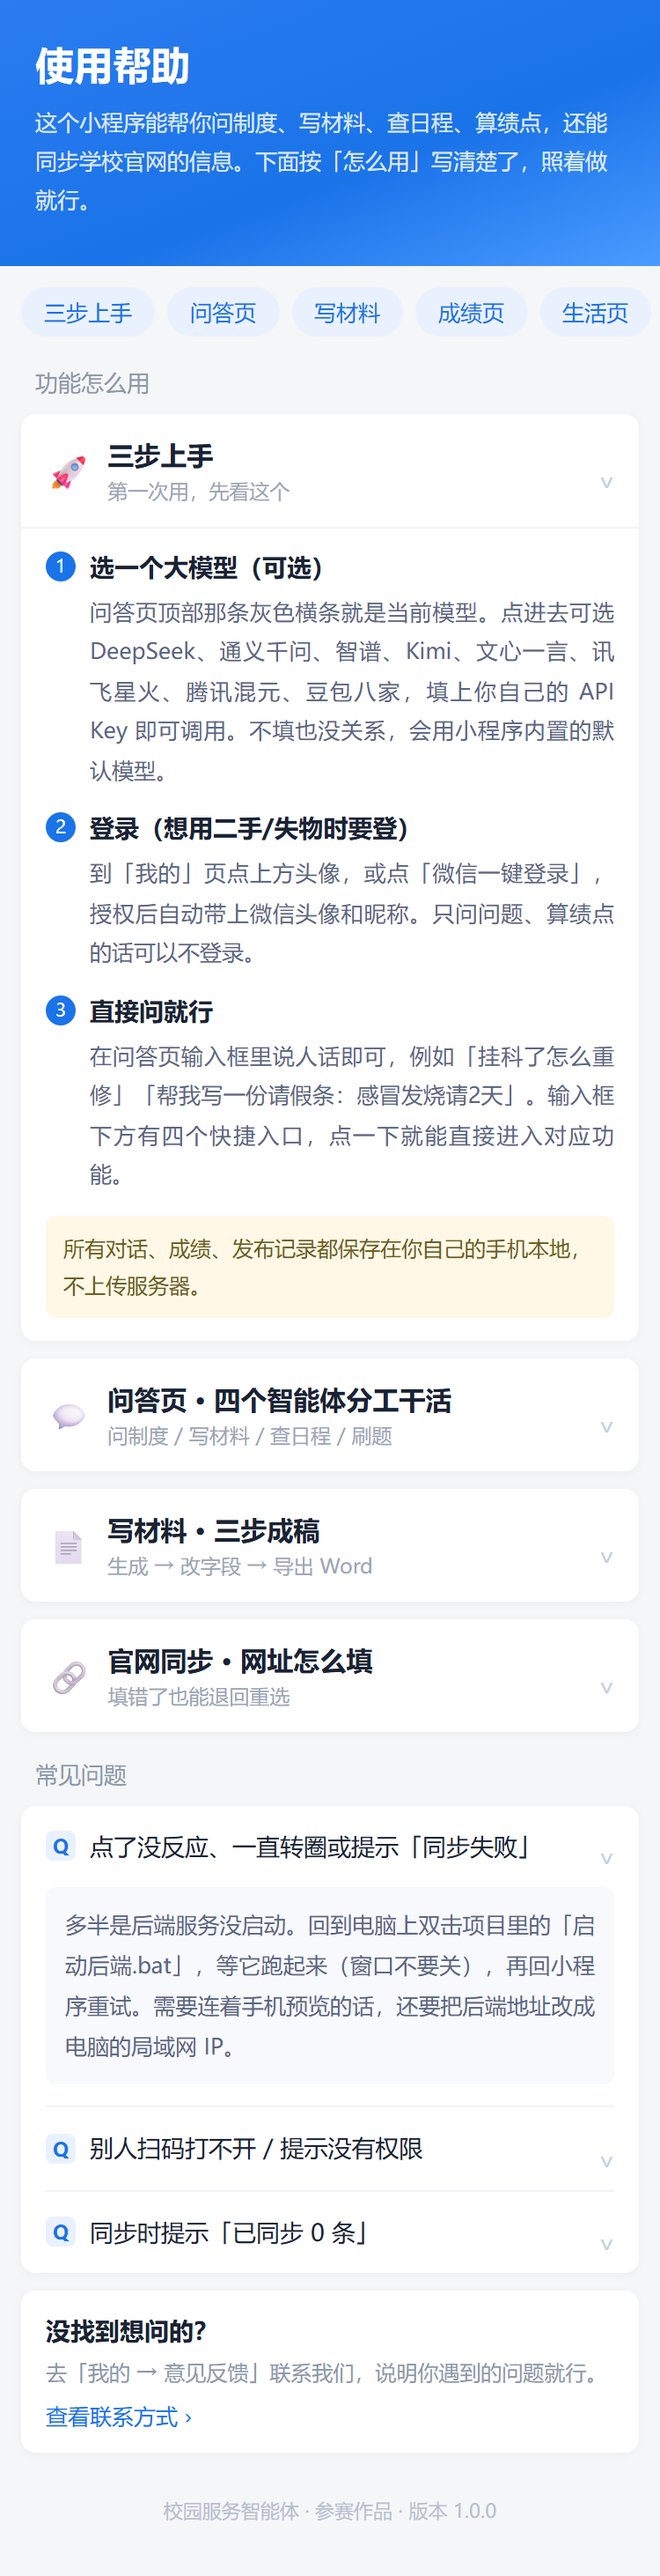
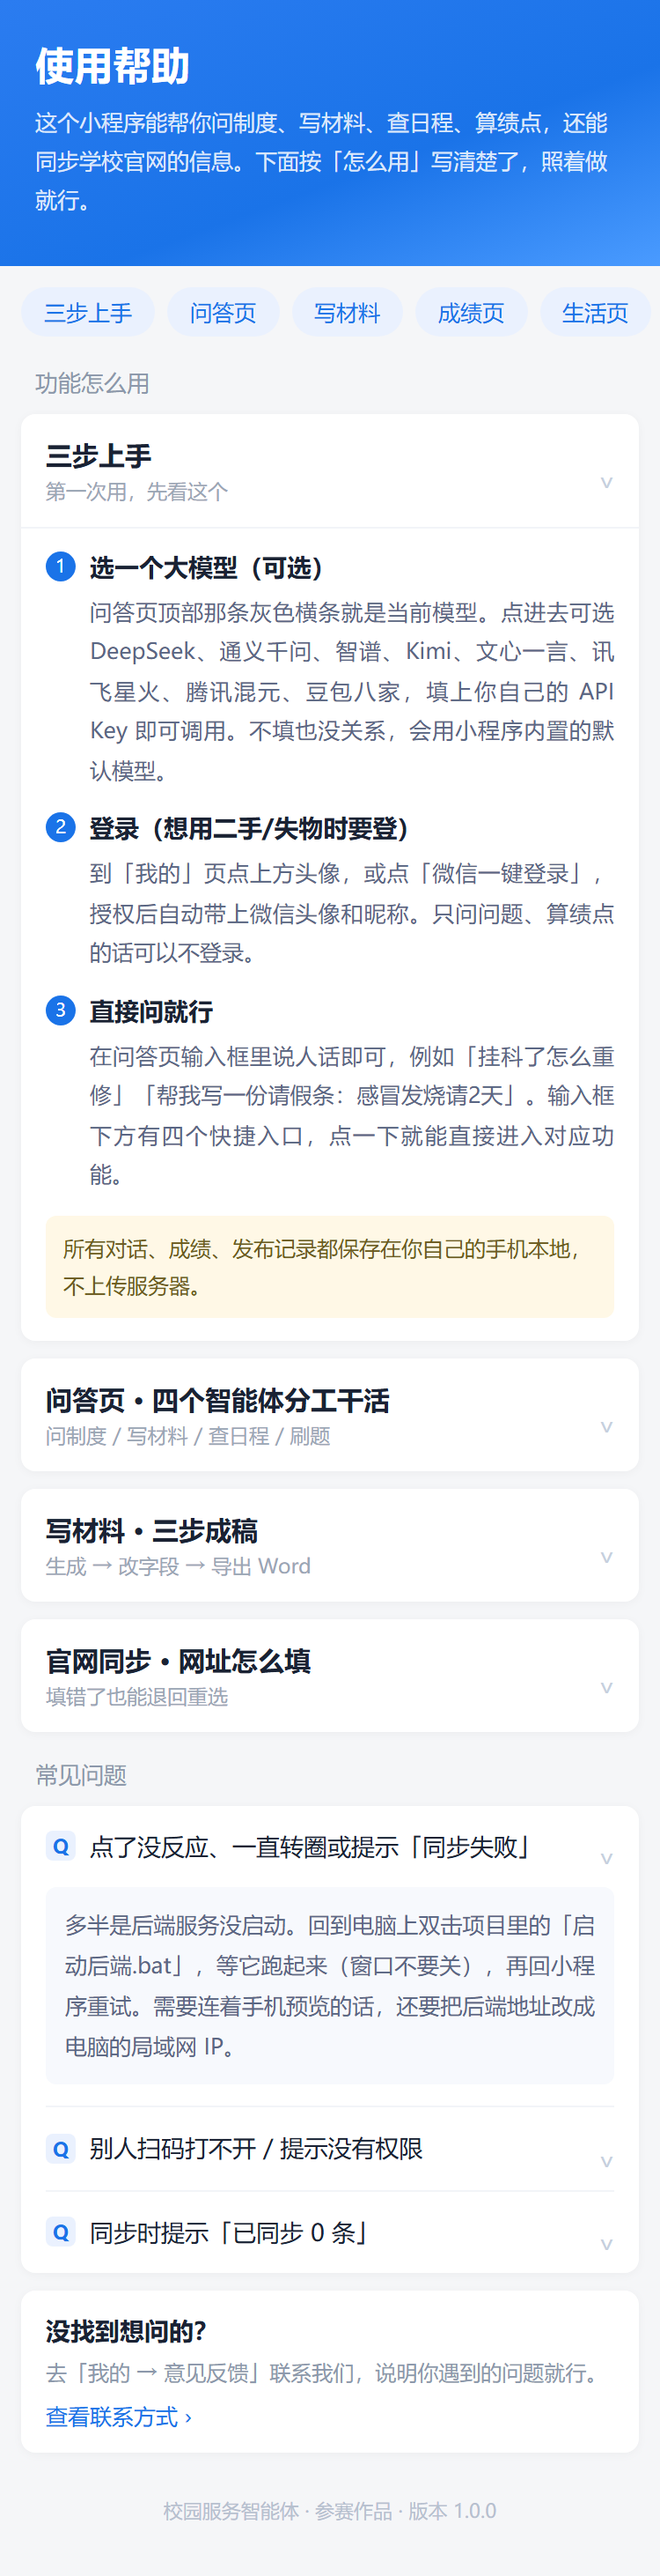
style(help): 去掉帮助页的 emoji 图标
分组卡标题前的 🚀💬📄📊☀🔗👤 过于模板化，删掉图标后
标题直接左对齐，只保留标题+副标题+折叠箭头，与实际功能
无关的装饰一并移除。

Changed region(s): [[0.0613, 0.5913, 0.5827, 0.6847], [0.0613, 0.5291, 0.6747, 0.5602], [0.0613, 0.1556, 0.3987, 0.2179]]

diff --git a/miniprogram/pages/help/help.js b/miniprogram/pages/help/help.js
@@ -12,7 +12,7 @@ Page({
   onLoad() {
     const guides = [
       {
-        id: 'g-start', icon: '🚀', title: '三步上手', sub: '第一次用，先看这个',
+        id: 'g-start', title: '三步上手', sub: '第一次用，先看这个',
         steps: [
           { t: '选一个大模型（可选）', d: '问答页顶部那条灰色横条就是当前模型。点进去可选 DeepSeek、通义千问、智谱、Kimi、文心一言、讯飞星火、腾讯混元、豆包八家，填上你自己的 API Key 即可调用。不填也没关系，会用小程序内置的默认模型。' },
           { t: '登录（想用二手/失物时要登）', d: '到「我的」页点上方头像，或点「微信一键登录」，授权后自动带上微信头像和昵称。只问问题、算绩点的话可以不登录。' },
@@ -21,7 +21,7 @@ Page({
         tip: '所有对话、成绩、发布记录都保存在你自己的手机本地，不上传服务器。'
       },
       {
-        id: 'g-chat', icon: '💬', title: '问答页 · 四个智能体分工干活',
+        id: 'g-chat', title: '问答页 · 四个智能体分工干活',
         sub: '问制度 / 写材料 / 查日程 / 刷题',
         steps: [
           { t: '不用自己选，它会自动分工', d: '你问一句话，系统先判断该由哪个智能体来答，再带着对应的资料和工具去回答。比如问「奖学金怎么评」走问答智能体，说「帮我写一份请假条」走材料智能体。' },
@@ -34,7 +34,7 @@ Page({
         tip: '问问题越具体越好。把「什么时候比赛」换成「计算机挑战赛报名什么时候截止」，答案会准得多。'
       },
       {
-        id: 'g-doc', icon: '📄', title: '写材料 · 三步成稿',
+        id: 'g-doc', title: '写材料 · 三步成稿',
         sub: '生成 → 改字段 → 导出 Word',
         steps: [
           { t: '① 说清楚要什么', d: '直接输入，格式是「帮我写一份××：具体情况」。例如：帮我写一份请假条：感冒发烧请2天；帮我写一份活动策划：校园编程兴趣小组招新。' },
@@ -44,7 +44,7 @@ Page({
         tip: '目前支持的模板有请假条、实训申请、活动策划、社团申报四类。生成过的材料会在「我的 → 我生成的材料」里留下记录。'
       },
       {
-        id: 'g-score', icon: '📊', title: '成绩页 · 算绩点、看分布、测提分',
+        id: 'g-score', title: '成绩页 · 算绩点、看分布、测提分',
         sub: '只填课程名、学分、分数就行',
         steps: [
           { t: '录入成绩', d: '在「录入成绩」里填三个框：课程名、学分、分数，点「添加」。填错了点右边的「删」删掉。' },
@@ -56,7 +56,7 @@ Page({
         tip: '成绩只存在你手机本地，用于算绩点和问答，不会上传到服务器保存。'
       },
       {
-        id: 'g-life', icon: '☀', title: '生活页 · 校园服务',
+        id: 'g-life', title: '生活页 · 校园服务',
         sub: '天气 / 校历作息 / 失物招领 / 二手市场',
         steps: [
           { t: '天气', d: '打开生活页自动定位并显示当前天气，下面有穿衣和出行建议。' },
@@ -67,7 +67,7 @@ Page({
         tip: '发布的内容请勿包含身份证号、银行卡号等敏感信息，也请勿发布违规物品。'
       },
       {
-        id: 'g-sync', icon: '🔗', title: '官网同步 · 网址怎么填',
+        id: 'g-sync', title: '官网同步 · 网址怎么填',
         sub: '填错了也能退回重选',
         steps: [
           { t: '① 找到「同步官网」入口', d: '生活页的校历/作息/通知公告卡片、成绩页的「学校成绩规则」卡片右上角，都有「同步官网」按钮。' },
@@ -78,7 +78,7 @@ Page({
         tip: '示例：https://home.xasyu.cn/web/jwc/ （教务处栏目页）。同步的是学校公开发布的信息，仅作查询方便，具体以学校最新正式文件为准。'
       },
       {
-        id: 'g-mine', icon: '👤', title: '我的 · 设置与数据',
+        id: 'g-mine', title: '我的 · 设置与数据',
         sub: '登录、大模型、清除数据',
         steps: [
           { t: '登录与头像昵称', d: '未登录时点头像即可一键登录；登录后头像上方会闪现「✓ 登录成功」。之后再点头像可以换头像，点昵称可以直接改。' },

diff --git a/docs/preview-help.html b/docs/preview-help.html
@@ -55,7 +55,6 @@ body{margin:0;background:#f5f6f8;font-family:"Microsoft YaHei",sans-serif;width:
 <!-- 展开态 -->
 <div class="card g-card">
   <div class="g-head">
-    <span class="g-icon">🚀</span>
     <div class="g-tt"><span class="g-title">三步上手</span><span class="g-sub">第一次用，先看这个</span></div>
     <span class="g-arrow">⌄</span>
   </div>
@@ -76,21 +75,18 @@ body{margin:0;background:#f5f6f8;font-family:"Microsoft YaHei",sans-serif;width:
 <!-- 折叠态 -->
 <div class="card g-card">
   <div class="g-head">
-    <span class="g-icon">💬</span>
     <div class="g-tt"><span class="g-title">问答页 · 四个智能体分工干活</span><span class="g-sub">问制度 / 写材料 / 查日程 / 刷题</span></div>
     <span class="g-arrow">⌄</span>
   </div>
 </div>
 <div class="card g-card">
   <div class="g-head">
-    <span class="g-icon">📄</span>
     <div class="g-tt"><span class="g-title">写材料 · 三步成稿</span><span class="g-sub">生成 → 改字段 → 导出 Word</span></div>
     <span class="g-arrow">⌄</span>
   </div>
 </div>
 <div class="card g-card">
   <div class="g-head">
-    <span class="g-icon">🔗</span>
     <div class="g-tt"><span class="g-title">官网同步 · 网址怎么填</span><span class="g-sub">填错了也能退回重选</span></div>
     <span class="g-arrow">⌄</span>
   </div>
